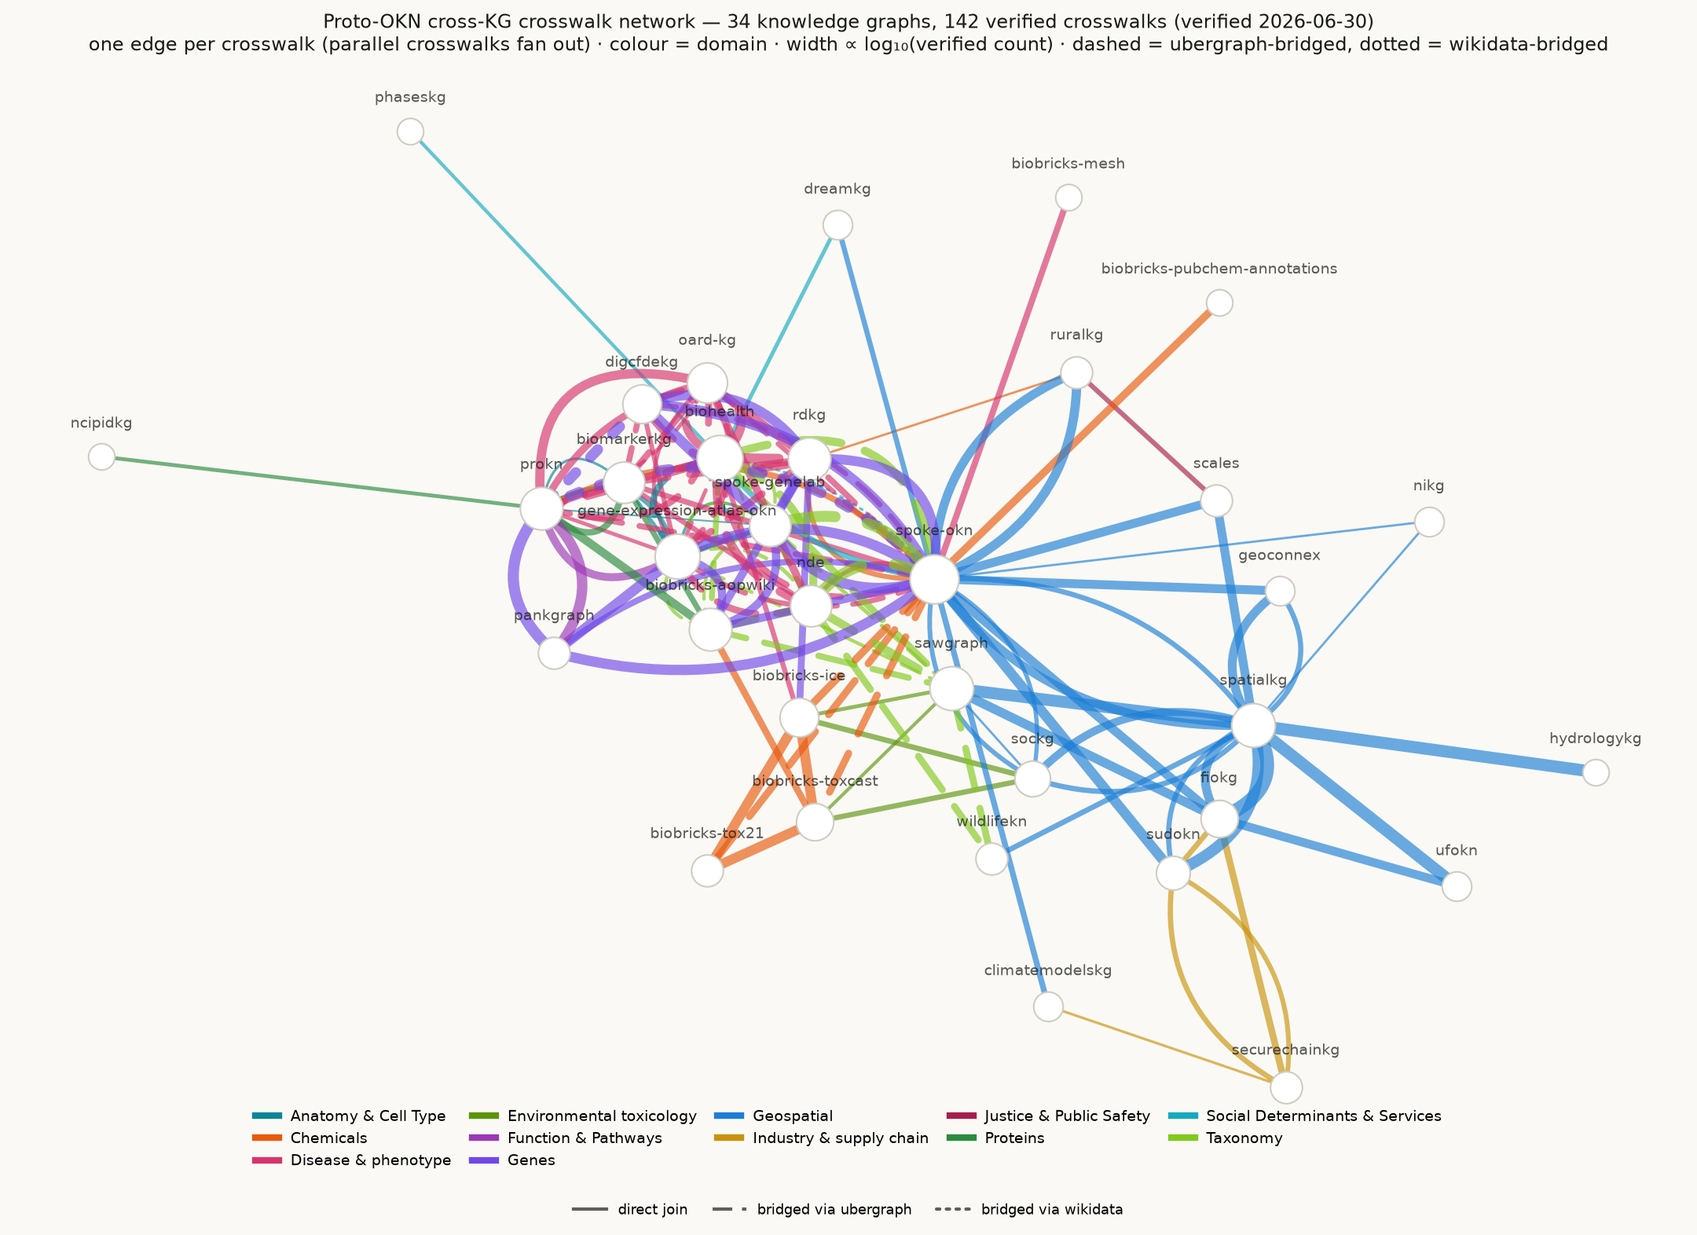
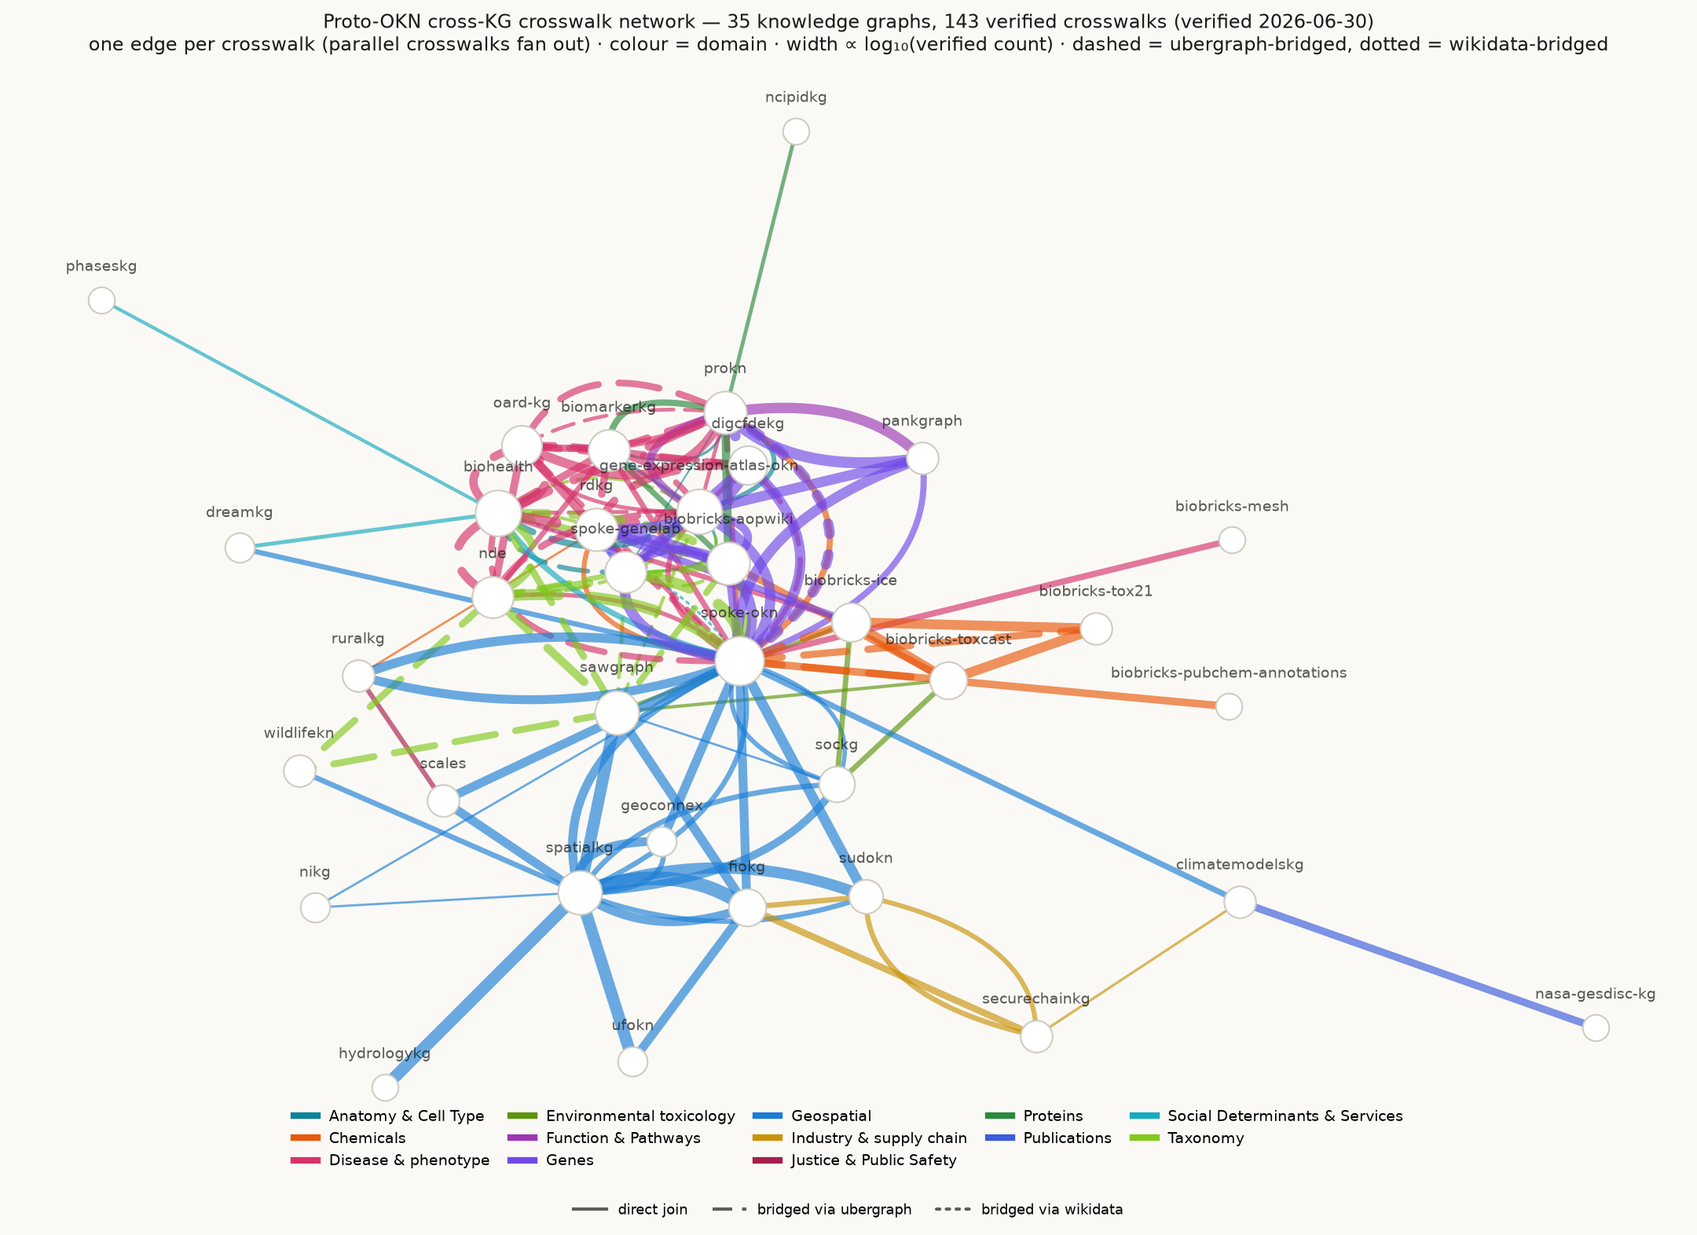
feat(crosswalks): add climatemodelskg×nasa-gesdisc-kg DOI crosswalk (PB1) — de-islands nasa-gesdisc-kg
nasa-gesdisc-kg was filed as a hard island only because its shipped
entities.csv uses a stale namespace (nasa-gesdisc.proto-okn.net) while
the DEPLOYED data uses purl.org/okn/frink/kg/nasa-gesdisc/schema/, so
every schema-derived probe returned empty. Probing the live graph
directly shows it is a rich bibliometric graph: 465,143 publications
(works citing/using NASA Earth-science datasets) each with bibo:doi,
plus author ORCID, institution ROR, and OpenAlex ids.

climatemodelskg carries a DOI literal on its 1,910 climate-modeling
Paper nodes (cpub:doi, https://doi.org/ form); nasa-gesdisc-kg carries
the DOI as an IRI (bibo:doi, http://dx.doi.org/ form). Normalizing both
to the bare lowercase DOI (strip scheme+host, LCASE) and inner-joining
yields 651 shared papers (34% of climatemodelskg), verified live and
confirmed by matched titles (e.g. the IPSL-CM5 CMIP paper
10.1007/s00382-012-1636-1). This is nasa-gesdisc-kg's first federation
crosswalk and climatemodelskg's first publication-level link.

- new record PB1 in both crosswalks.json copies; canonical count 142->143
- new "Publications" domain: DOI in _DOMAIN_BY_SHARED_KEY; code B + colour
  in build_crosswalk_network.py; cluster note PB_publications
- nasa-gesdisc-kg dropped from islands.kgs (only medical-device-kg left)
- regenerated inventory (143), network html (35 nodes) + png (144 edges)
- 2 transcripts (publications01 q1/q2) -> 286 example questions
- count citations bumped in README + crosswalks_example.md
[…]

diff --git a/docs/crosswalks/crosswalk-network.html b/docs/crosswalks/crosswalk-network.html
@@ -43,7 +43,7 @@
 <body>
 <header>
   <h1>Proto-OKN cross-KG crosswalk network</h1>
-  <p>34 knowledge graphs, 142 verified crosswalks (verified 2026-06-30). One edge per crosswalk &mdash; parallel crosswalks between a pair fan out as arcs · color = data domain · width &#8733; log&#8321;&#8320;(verified count).</p>
+  <p>35 knowledge graphs, 143 verified crosswalks (verified 2026-06-30). One edge per crosswalk &mdash; parallel crosswalks between a pair fan out as arcs · color = data domain · width &#8733; log&#8321;&#8320;(verified count).</p>
   <p class="tip">&#9654; <b>Hover</b> a node or edge for detail · <b>drag</b> to rearrange · <b>scroll</b> to zoom · <b>double-click</b> a node to unpin it.<br>&#9654; <b>Click a legend item</b> &mdash; a domain (e.g. <b>Chemicals</b>) or a line style (e.g. <b>via ubergraph</b>) &mdash; to toggle those edges.</p>
 </header>
 <div class="bar" id="legend"></div>
@@ -67,7 +67,7 @@
 </script>
 <script>
 (function(){
-const DOM={A:["Anatomy & Cell Type","#0C8599"],C:["Chemicals","#E8590C"],D:["Disease & phenotype","#D6336C"],E:["Environmental toxicology","#5C940D"],F:["Function & Pathways","#9C36B5"],G:["Genes","#7048E8"],S:["Geospatial","#1C7ED6"],I:["Industry & supply chain","#C9920A"],J:["Justice & Public Safety","#A61E4D"],P:["Proteins","#2B8A3E"],L:["Social Determinants & Services","#15AABF"],T:["Taxonomy","#82C91E"]};
+const DOM={A:["Anatomy & Cell Type","#0C8599"],C:["Chemicals","#E8590C"],D:["Disease & phenotype","#D6336C"],E:["Environmental toxicology","#5C940D"],F:["Function & Pathways","#9C36B5"],G:["Genes","#7048E8"],S:["Geospatial","#1C7ED6"],I:["Industry & supply chain","#C9920A"],J:["Justice & Public Safety","#A61E4D"],P:["Proteins","#2B8A3E"],B:["Publications","#3B5BDB"],L:["Social Determinants & Services","#15AABF"],T:["Taxonomy","#82C91E"]};
 const BRIDGES=new Set();
 const R=[
 ["A",["biomarkerkg","gene-expression-atlas-okn"],8,"CL"],
@@ -197,6 +197,8 @@ const R=[
 ["P",["biomarkerkg","biobricks-aopwiki"],84,"UniProt"],
 ["P",["biomarkerkg","prokn"],205,"UniProt"],
 ["P",["ncipidkg","prokn"],12,"UniProt"],
+
+["B",["climatemodelskg","nasa-gesdisc-kg"],651,"DOI"],
 
 ["L",["spoke-okn","biohealth"],3,"MeSH→UMLS (wikidata)"],
 ["L",["spoke-okn","biohealth"],89,"concept label (SNOMED preferred term ↔ UMLS concept name)"],

diff --git a/scripts/build_crosswalk_network.py b/scripts/build_crosswalk_network.py
@@ -54,6 +54,7 @@ DOMAIN_CODE = {
     "Social Determinants & Services": "L",
     "Environmental toxicology": "E",
     "Justice & Public Safety": "J",
+    "Publications": "B",
     "Other": "O",
 }
 # fallback colours for domains not already present in the file's DOM
@@ -70,6 +71,7 @@ DEFAULT_COLORS = {
     "L": "#15AABF",
     "E": "#5C940D",
     "J": "#A61E4D",
+    "B": "#3B5BDB",
     "O": "#868E96",
 }
 

diff --git a/src/mcp_okn/crosswalks.py b/src/mcp_okn/crosswalks.py
@@ -157,6 +157,7 @@ _DOMAIN_BY_SHARED_KEY: dict[str, str] = {
     "GeoNames": "Geospatial",
     "NAICS": "Industry & supply chain",
     "SUDOKN_industry_sector": "Industry & supply chain",
+    "DOI": "Publications",
     "GO": "Function & Pathways",
     "Reactome": "Function & Pathways",
     # digcfdekg multi-vocabulary disease joins (verbose composite keys)

diff --git a/docs/crosswalks/crosswalks_examples/publications01_q1_climatemodelskg-nasa_doi-shared-paper.md b/docs/crosswalks/crosswalks_examples/publications01_q1_climatemodelskg-nasa_doi-shared-paper.md
@@ -1,0 +1,56 @@
+# A climate-modeling paper in climatemodelskg, resolved by DOI to its record in NASA's Earth-science publication graph
+
+- **Date:** 2026-07-12
+- **Model:** claude-opus-4-8
+- **SPARQL endpoint:** https://apps.okn.us/federation/sparql
+
+## Knowledge graphs used
+
+- `climatemodelskg` — <https://purl.org/okn/frink/kg/climatemodelskg>
+- `nasa-gesdisc-kg` — <https://purl.org/okn/frink/kg/nasa-gesdisc-kg>
+
+## Conversation
+
+👤 **User**
+
+Crosswalk: `climatemodelskg` × `nasa-gesdisc-kg` on **DOI** (new cross-domain link). climatemodelskg carries a scholarly DOI on its `Paper` nodes as a literal in the `https://doi.org/{doi}` form (`cpub:doi`); nasa-gesdisc-kg carries the same DOI on its `Publication` nodes as an IRI in the `http://dx.doi.org/{doi}` form (`bibo:doi`). Strip the scheme + host (`^https?://(dx.)?doi.org/`) and lowercase both, then match.
+
+Research question: for a specific climate-modeling paper that climatemodelskg has structured (the IPSL-CM5 Earth System Model CMIP3→CMIP5 projections paper, DOI `10.1007/s00382-012-1636-1`), does nasa-gesdisc-kg hold the same publication in its Earth-science literature graph — linking climatemodelskg's NLP-extracted modeling semantics to NASA's bibliometric record?
+
+Why the join is required: climatemodelskg knows *what a paper does in modeling terms* (the model it uses, its scientific field and keywords) but nothing about its authorship or its place in the literature around NASA data; nasa-gesdisc-kg knows *the publication's bibliometric record* (full authorship, year, ORCID/ROR, citation network around NASA Earth-science datasets) but does not extract modeling semantics. The shared DOI is the only bridge between the two views of the same paper.
+
+---
+
+🧠 **Assistant**
+
+The DOI joins the two graphs directly: climatemodelskg's `Paper` resolves to the identical publication in nasa-gesdisc-kg. The row carries BOTH graphs — climatemodelskg's structured extraction and NASA's bibliometric record:
+
+| DOI | climatemodelskg (title / field) | nasa-gesdisc-kg (year / authors) |
+| --- | --- | --- |
+| 10.1007/s00382-012-1636-1 | *Climate change projections using the IPSL-CM5 Earth System Model: from CMIP3 to CMIP5* — field **Earth system modeling** | **2013** — Dufresne, J.-L., Foujols, M.-A., Denvil, S., … (60-author IPSL list) |
+
+**Why it answers the question.** The same DOI is held on both sides, so the two graphs' facts about this one paper merge. climatemodelskg contributes the NLP-extracted modeling semantics — scientific field *Earth system modeling* and keywords *Coupled model intercomparison project*, *Representative Concentration Pathways*, *Climate sensitivity*, *General Circulation Model*. nasa-gesdisc-kg contributes the bibliometric record — publication year 2013 and the full 60-author IPSL byline (Dufresne et al.), plus this paper's position in NASA GES DISC's citation graph of Earth-science datasets (author ORCID, institution ROR, and OpenAlex crawl). Neither graph holds the other's view; the DOI is what lets a climate-model paper's *methods* be read alongside its *bibliometric identity*. This is nasa-gesdisc-kg's **first federation crosswalk** — it was previously filed as a hard island because its shipped `entities.csv` uses a stale namespace (`nasa-gesdisc.proto-okn.net`) while the deployed data uses `purl.org/okn/frink/kg/nasa-gesdisc/schema/`, so every schema-derived probe returned empty.
+
+#### Query 1 — the IPSL-CM5 paper, joined across both graphs on the normalized DOI
+
+```sparql
+PREFIX cpub: <https://climatepub4kg.github.io/ontology#>
+PREFIX bibo: <http://purl.org/ontology/bibo/>
+PREFIX time: <http://www.w3.org/2006/time#>
+SELECT ?cmTitle ?field ?nasaYear WHERE {
+  GRAPH <https://purl.org/okn/frink/kg/climatemodelskg> {
+    ?p1 cpub:doi ?d1 ; cpub:title ?cmTitle ; cpub:PAPER_BELONGS_TO_FIELD ?f .
+    ?f cpub:name ?field .
+    FILTER(CONTAINS(LCASE(STR(?d1)),"10.1007/s00382-012-1636-1"))
+    BIND(LCASE(REPLACE(STR(?d1),"^https?://(dx[.])?doi[.]org/","")) AS ?bare) }
+  GRAPH <https://purl.org/okn/frink/kg/nasa-gesdisc-kg> {
+    ?p2 bibo:doi ?d2 ; time:year ?nasaYear .
+    BIND(LCASE(REPLACE(STR(?d2),"^https?://(dx[.])?doi[.]org/","")) AS ?bare) }
+}
+```
+
+_Both-graph row: climatemodelskg's Paper "Climate change projections using the IPSL-CM5 Earth System Model: from CMIP3 to CMIP5" (field **Earth system modeling**) is the identical publication as nasa-gesdisc-kg's 2013 Dufresne et al. record (DOI `10.1007/s00382-012-1636-1`)._
+
+## Literature validation
+
+Validated by construction on the authoritative shared standard (the DOI — a registered, case-insensitive persistent identifier) plus the hand-verified crosswalk: climatemodelskg stores `https://doi.org/10.1007/s00382-012-1636-1` and nasa-gesdisc-kg independently stores the IRI `http://dx.doi.org/10.1007/s00382-012-1636-1`, so both provably refer to the same publication (Dufresne et al. 2013, *Climate Dynamics*). Titles and authorship agree. **Validated** (shared DOI standard; both-KG row executed live).

diff --git a/docs/crosswalks/crosswalks_examples/publications01_q2_climatemodelskg-nasa_doi-overlap.md b/docs/crosswalks/crosswalks_examples/publications01_q2_climatemodelskg-nasa_doi-overlap.md
@@ -1,0 +1,55 @@
+# How many of climatemodelskg's papers are also in NASA's Earth-science publication graph, on DOI
+
+- **Date:** 2026-07-12
+- **Model:** claude-opus-4-8
+- **SPARQL endpoint:** https://apps.okn.us/federation/sparql
+
+## Knowledge graphs used
+
+- `climatemodelskg` — <https://purl.org/okn/frink/kg/climatemodelskg>
+- `nasa-gesdisc-kg` — <https://purl.org/okn/frink/kg/nasa-gesdisc-kg>
+
+## Conversation
+
+👤 **User**
+
+Crosswalk: `climatemodelskg` × `nasa-gesdisc-kg` on **DOI**. climatemodelskg carries a DOI literal (`cpub:doi`, `https://doi.org/` form) on its `Paper` nodes; nasa-gesdisc-kg carries a DOI IRI (`bibo:doi`, `http://dx.doi.org/` form) on its `Publication` nodes.
+
+Research question: across climatemodelskg's full paper set, how many papers are also present in nasa-gesdisc-kg's publication graph — the size of the joinable overlap between the climate-modeling literature and the literature NASA GES DISC tracks around its Earth-science datasets?
+
+Why the join is required: it takes both graphs' publication sets together to quantify how much of the climate-modeling literature is also part of NASA's Earth-science citation graph — the papers where climatemodelskg's structured modeling extraction and nasa-gesdisc-kg's bibliometric context are both available. Neither graph answers this alone.
+
+---
+
+🧠 **Assistant**
+
+climatemodelskg carries **1,910 distinct-DOI** climate-modeling papers; nasa-gesdisc-kg carries **465,143 distinct-DOI** publications (the works that cite or use NASA Earth-science datasets). Normalizing both to the bare lowercase DOI and inner-joining:
+
+| metric | value |
+| --- | --- |
+| climatemodelskg distinct-DOI papers | 1,910 |
+| nasa-gesdisc-kg distinct-DOI publications | 465,143 |
+| **shared DOIs** | **651** |
+
+**Why it answers the question.** 651 of climatemodelskg's 1,910 papers (**34%**) are also in nasa-gesdisc-kg — a large overlap given the graphs were built independently for different purposes (climate-model semantic extraction vs. NASA dataset bibliometrics). For each of these 651 papers, climatemodelskg's structured facts (models used, methods, fields, keywords, innovations) can be read alongside nasa-gesdisc-kg's bibliometric record (full authorship, year, author ORCID, institution ROR, and the paper's place in NASA's citation graph). This is the integration surface neither graph exposes alone, and it is nasa-gesdisc-kg's **first crosswalk in the federation** — de-islanding a graph that was previously unreachable because its shipped `entities.csv` namespace differs from the deployed one. The join is robust by construction: DOIs are registered, case-insensitive persistent identifiers, and the only surface differences (`https` vs `http`, `doi.org` vs `dx.doi.org`, occasional prefix-letter case) are removed by the normalization.
+
+#### Query 2 — the climatemodelskg ↔ nasa-gesdisc-kg DOI overlap
+
+```sparql
+PREFIX cpub: <https://climatepub4kg.github.io/ontology#>
+PREFIX bibo: <http://purl.org/ontology/bibo/>
+SELECT (COUNT(DISTINCT ?bare) AS ?n) WHERE {
+  GRAPH <https://purl.org/okn/frink/kg/climatemodelskg> {
+    ?p1 cpub:doi ?d1 .
+    BIND(LCASE(REPLACE(STR(?d1),"^https?://(dx[.])?doi[.]org/","")) AS ?bare) }
+  GRAPH <https://purl.org/okn/frink/kg/nasa-gesdisc-kg> {
+    ?p2 bibo:doi ?d2 .
+    BIND(LCASE(REPLACE(STR(?d2),"^https?://(dx[.])?doi[.]org/","")) AS ?bare) }
+}
+```
+
+_Returns **651** — climatemodelskg papers whose DOI is also a nasa-gesdisc-kg publication (of 1,910 distinct-DOI papers)._
+
+## Literature validation
+
+Validated by construction on the authoritative shared standard (the DOI) plus the hand-verified crosswalk: each match is an exact shared DOI after normalizing scheme/host/case, and sampled matches agree by title on both sides (e.g. `10.1007/s00382-012-1636-1` — the IPSL-CM5 CMIP3→CMIP5 paper; `10.5194/bg-9-759-2012` — the terrestrial methane-budget paper). The verified count (651) was reproduced live. **Validated** (shared DOI standard; count executed live).

diff --git a/docs/crosswalks/crosswalks_example.md b/docs/crosswalks/crosswalks_example.md
@@ -374,7 +374,7 @@ BioHealthKG's 6 NCBITaxon overlaps (T15–T20) join by **exact scientific-name m
 
 **Question generation.** The research questions were generated by the model (claude-opus-4-8), not hand-authored. For each verified crosswalk, the model inspected the two (or three) graphs' schemas and the shared identifier, then proposed questions that genuinely require the join, and ran and validated each one. The resulting questions are illustrative examples of what each crosswalk supports rather than a curated or exhaustive set.
 
-**Crosswalk selection.** Candidate joins came from the `mcp-okn list_crosswalks` registry (142 hand-verified crosswalks, verified 2026-06-30; the oard-kg×prokn DOID and OMIM-bridge examples were retired after ProKN v0.0.5 migrated its disease cross-references off `rdfs:seeAlso`, the scales×ruralkg NIBRS offense-category crosswalk CJ1 was added 2026-07-01 after the scales entities.csv update populated `fbi:OffenseUCRCode`, and the sockg×sawgraph S2 Level-13 leaf-to-leaf crosswalk H3 was added 2026-07-11). For each pair (or triple) of knowledge graphs, `get_join_strategy` supplied the precomputed join recipe — the shared identifier, the predicate/role on each side, the IRI-normalization rewrite needed to make the two graphs' identifiers literally equal, and a verified non-zero row count. A crosswalk was only written up once a join returned rows that genuinely answered the research question.
+**Crosswalk selection.** Candidate joins came from the `mcp-okn list_crosswalks` registry (143 hand-verified crosswalks, verified 2026-06-30; the oard-kg×prokn DOID and OMIM-bridge examples were retired after ProKN v0.0.5 migrated its disease cross-references off `rdfs:seeAlso`, the scales×ruralkg NIBRS offense-category crosswalk CJ1 was added 2026-07-01 after the scales entities.csv update populated `fbi:OffenseUCRCode`, the sockg×sawgraph S2 Level-13 leaf-to-leaf crosswalk H3 was added 2026-07-11, and the climatemodelskg×nasa-gesdisc-kg DOI crosswalk PB1 was added 2026-07-12 — de-islanding nasa-gesdisc-kg once its deployed namespace, distinct from the stale one in its entities.csv, was probed directly). For each pair (or triple) of knowledge graphs, `get_join_strategy` supplied the precomputed join recipe — the shared identifier, the predicate/role on each side, the IRI-normalization rewrite needed to make the two graphs' identifiers literally equal, and a verified non-zero row count. A crosswalk was only written up once a join returned rows that genuinely answered the research question.
 
 **Per-question workflow.** Each transcript followed the same sequence: (1) `list_kgs` / `describe_kg` to choose the graphs; (2) `get_schema` on each graph to learn its classes, predicates and property names; (3) `probe_namespaces` where the join key is an ontology term, to confirm which identifier scheme actually populates the predicate (e.g. DOID vs MONDO, Ensembl vs Entrez vs symbol); (4) `get_join_strategy` (falling back to `find_crosswalks` only on an `unknown` result) to fix the bridge; and (5) one or more `sparql_query` calls scoping each graph with `GRAPH <https://purl.org/okn/frink/kg/{shortname}> { … }` so a single query spans multiple named graphs.
 

diff --git a/docs/crosswalks/proto-okn-crosswalk-inventory.md b/docs/crosswalks/proto-okn-crosswalk-inventory.md
@@ -18,7 +18,7 @@ list crosswalks with examples
 
 🧠 **Assistant**
 
-Here are all 142 precomputed cross-KG crosswalks (verified through 2026-06-30), grouped by domain. Each shows the knowledge graphs joined, the shared identifier, the verified overlap count, and example questions the join answers.
+Here are all 143 precomputed cross-KG crosswalks (verified through 2026-06-30), grouped by domain. Each shows the knowledge graphs joined, the shared identifier, the verified overlap count, and example questions the join answers.
 
 ## Anatomy & Cell Type
 
@@ -187,6 +187,12 @@ Here are all 142 precomputed cross-KG crosswalks (verified through 2026-06-30), 
 | biomarkerkg ↔ biobricks-aopwiki | UniProt | 84 | Which clinical biomarker proteins are also AOP key-event targets, and which adverse outcome pathways involve them (toxicology meets clinical biomarkers)?<br><br>For a given AOP-Wiki adverse outcome pathway, which of its key-event target proteins (by UniProt) are validated clinical biomarkers in BiomarkerKB and for what disease? |
 | biomarkerkg ↔ prokn | UniProt | 205 | For the clinical biomarker proteins a disease has in BiomarkerKB, what GO biological processes / molecular functions and pathways does ProKN annotate them with?<br><br>Across the 205 shared biomarker UniProt proteins, which GO biological processes and pathways does ProKN annotate most frequently, and do those processes cluster by the biomarker's disease category? |
 | ncipidkg ↔ prokn | UniProt | 12 | Signaling-pathway interaction proteins (NCI-PID) enriched with ProKN protein annotations.<br><br>Of the 12 shared UniProt proteins, which NCI-PID signaling hubs also carry a ProKN disease association or PTM annotation, flagging pathway nodes with therapeutic relevance? |
+
+## Publications
+
+| KGs | Shared key | Count | Examples |
+|---|---|---|---|
+| climatemodelskg ↔ nasa-gesdisc-kg | DOI | 651 | For a climate-modeling paper in climatemodelskg (by DOI), does nasa-gesdisc-kg record that same publication among the works citing or using NASA Earth-science datasets - and which NASA datasets, instruments, or platforms does it connect to?<br><br>How many of climatemodelskg's papers are also in nasa-gesdisc-kg's publication set, joined on DOI? |
 
 ## Social Determinants & Services
 

diff --git a/README.md b/README.md
@@ -57,7 +57,7 @@ where a question one graph can't answer alone becomes answerable by combining tw
 This section catalogs the verified crosswalks and shows the queries that exercise
 them.
 
-A visual map of the whole network — all 142 crosswalks across 34 graphs, drawn as
+A visual map of the whole network — all 143 crosswalks across 35 graphs, drawn as
 direct KG-to-KG edges (edge width ∝ log of the verified join count). Each crosswalk is
 its own edge, so multiple crosswalks between the same pair of graphs fan out as parallel
 arcs. Identifier-bridged joins (e.g. `DOID↔MONDO` via `ubergraph`, `HGNC→Entrez` via
@@ -77,7 +77,7 @@ geospatial and industrial joins against their authoritative shared standard):
   key, row count, and a one-line note on what each answers. Start here to see which
   graphs connect and on what identifier.
 - **[Cross-KG crosswalk catalog](docs/crosswalks/crosswalks_example.md)** —
-  **284 example questions** drawn from the verified crosswalks — two per crosswalk,
+  **286 example questions** drawn from the verified crosswalks — two per crosswalk,
   except the spoke-genelab×spoke-okn Entrez join, illustrated twice (G10 expression +
   G17 methylation), for 142 example pairs — across 12 domains (Anatomy & Cell Type, Chemicals, Disease & Phenotype,
   Environmental Toxicology, Function & Pathways, Genes, Geospatial, Industry & Supply
